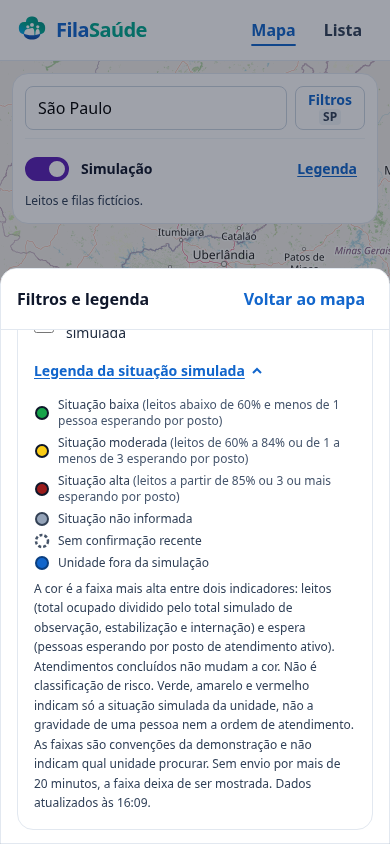
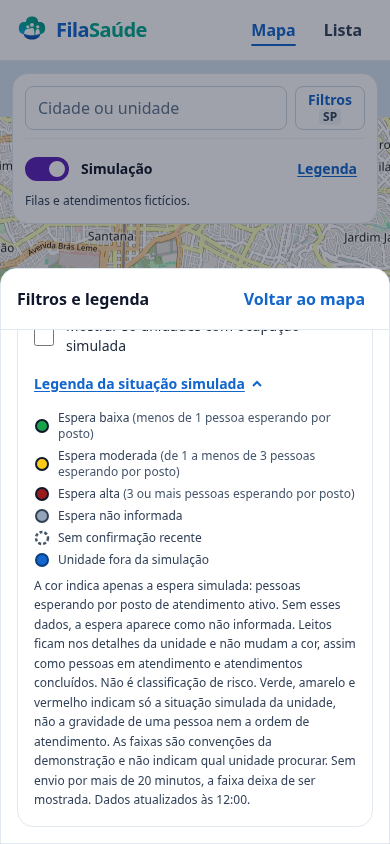
docs: atualiza o guia para destacar a espera simulada

diff --git a/.interface-design/system.md b/.interface-design/system.md
@@ -54,15 +54,15 @@
   characteristic is a feature of its own (#29).
 - Results have a neutral order (UF, city, name). Nothing ranks, highlights or
   recommends a unit. That holds when the map becomes the entry point and when
-  it shows occupancy: ranges are always text plus color, and never reuse the
-  colors of clinical risk classification.
+  it shows occupancy: ranges always pair text with color and explain that
+  they do not represent clinical risk classification.
 - The national query is answered from the local CNES copy by design, so it is
   shown as plain text ("Cópia nacional do CNES, atualizada até…"). Only a real
   outage of the official source gets the amber `role="status"` notice.
 
 ## Simulated occupancy
 
-- The "Ocupação simulada de leitos" layer (proposal 0001) exists only when the API
+- The "Ocupação simulada" layer (proposal 0001) exists only when the API
   answers `GET /occupancy`; it starts off and the choice lasts for the session.
   The map, the list and the unit detail share it (`OccupancyLayerProvider`).
 - Fontes nacionais alimentam a ocupação continuamente, independentemente de
@@ -70,17 +70,18 @@
   afetam apenas a visualização de cada visitante. Não há seletor público nem
   endpoint de escrita para controlar as fontes; cenários de teste ficam na CLI
   do operador.
-- Nesta entrega, "ocupação" significa leitos sintéticos, e não movimento de
-  pessoas. A legenda explica que a cor usa a soma dos ocupados dividida pela
-  soma das capacidades das categorias informadas; o detalhe discrimina cada
-  categoria. As capacidades são geradas pelo simulador e não são inventário
-  real do CNES. Espera, atendimento e conclusões ficam fora desta entrega.
-- Palette: one violet scale with the same dark ring (`occupancy-ring`
-  #2E1065) for low, moderate and high, a solid gray disc for "não informada"
-  and a dashed hollow gray ring for "sem confirmação recente". Never the
-  colors of clinical risk classification. Controls of the layer use
-  `occupancy-control` (#5B21B6), not the color of a level. Values live in
-  `occupancy.ts` (canvas) and `index.css` (tokens); keep them in step.
+- Mapa, lista e resumo do detalhe priorizam pessoas esperando e em atendimento.
+  A cor usa apenas pessoas esperando por posto ativo: baixa abaixo de 1,
+  moderada de 1 a menos de 3, alta a partir de 3. São convenções da simulação.
+  Sem espera ou postos ativos informados, mostrar “Espera não informada”; zero
+  pessoas esperando é um valor válido. Não usar leitos como fallback.
+- Leitos por categoria e histórico de ocupação ficam como informações
+  complementares no detalhe. A faixa de espera da tabela histórica usa a mesma
+  regra do mapa. Leitos, pessoas em atendimento e conclusões não mudam a cor.
+- Paleta de espera: verde, amarelo e vermelho com anel escuro, cinza sólido
+  para dado não informado e anel cinza tracejado sem confirmação recente.
+  Texto acompanha a cor; a legenda explica que não é classificação de risco.
+  Controles permanecem violetas. Manter `occupancy.ts` e `index.css` coerentes.
 - Every simulated value carries the "Dados simulados" pill or the "Dado
   simulado · Simulador do FilaSaúde" line, the time it was sent and the level
   in words. The notice "Dados fictícios… não são a ocupação real" stays

diff --git a/docs/guia-filasaude.md b/docs/guia-filasaude.md
@@ -114,14 +114,20 @@ Com a demonstração ligada, cada unidade ganha uma cor:
 
 | Cor | Situação | Quando aparece |
 | --- | --- | --- |
-| Verde | Baixa | Leitos abaixo de 60% **e** menos de 1 pessoa esperando por posto de atendimento |
-| Amarelo | Moderada | Leitos de 60% a 84% **ou** de 1 a menos de 3 pessoas esperando por posto |
-| Vermelho | Alta | Leitos a partir de 85% **ou** 3 ou mais pessoas esperando por posto |
+| Verde | Espera baixa | Menos de 1 pessoa esperando por posto de atendimento ativo |
+| Amarelo | Espera moderada | De 1 a menos de 3 pessoas esperando por posto de atendimento ativo |
+| Vermelho | Espera alta | 3 ou mais pessoas esperando por posto de atendimento ativo |
 
-A cor é sempre a pior das duas situações, e o site diz qual delas definiu a cor
-(por exemplo, "Situação alta, por espera 3,5 por posto"). Os atendimentos
-concluídos não mudam a cor: eles contam o que já aconteceu no dia, não o que
-está acontecendo agora.
+A cor depende apenas das pessoas esperando por posto de atendimento ativo
+(por exemplo, "Espera alta, 3,5 por posto"). Sem a quantidade de pessoas
+esperando ou sem postos ativos informados, aparece **"Espera não informada"**
+em cinza. Zero pessoas esperando é diferente de dado ausente.
+
+O resumo no mapa e na lista destaca pessoas esperando e em atendimento. A
+ocupação de leitos fica como informação complementar nos detalhes da unidade:
+mesmo com leitos cheios, ela não aumenta a faixa de espera. Pessoas em atendimento
+e atendimentos concluídos também não mudam a cor. As faixas são convenções da
+simulação e não estimam quanto tempo uma pessoa vai esperar.
 
 Tudo isso aparece marcado como **"Dados simulados"**. Os números não descrevem
 nenhuma unidade de verdade, e as cores **não são classificação de risco**.
@@ -218,8 +224,9 @@ ganham as cores verde, amarelo e vermelho; as demais continuam em azul.
 
 ![Mapa da capital paulista com as cores da ocupação simulada](evidencias/fluxo-atendimento-mapa-1280x800.png)
 
-Ao abrir uma unidade, o resumo diz a situação e o que a definiu, além dos
-leitos ocupados, das pessoas esperando e das pessoas em atendimento.
+Ao abrir uma unidade, o resumo mostra a faixa de espera, as pessoas esperando
+e as pessoas em atendimento, com fonte e horário do envio. Leitos ficam nos
+detalhes da unidade. Dados ausentes aparecem como não informados.
 
 ![Resumo de uma unidade com a situação simulada](evidencias/fluxo-atendimento-popup-390x844.png)
 
